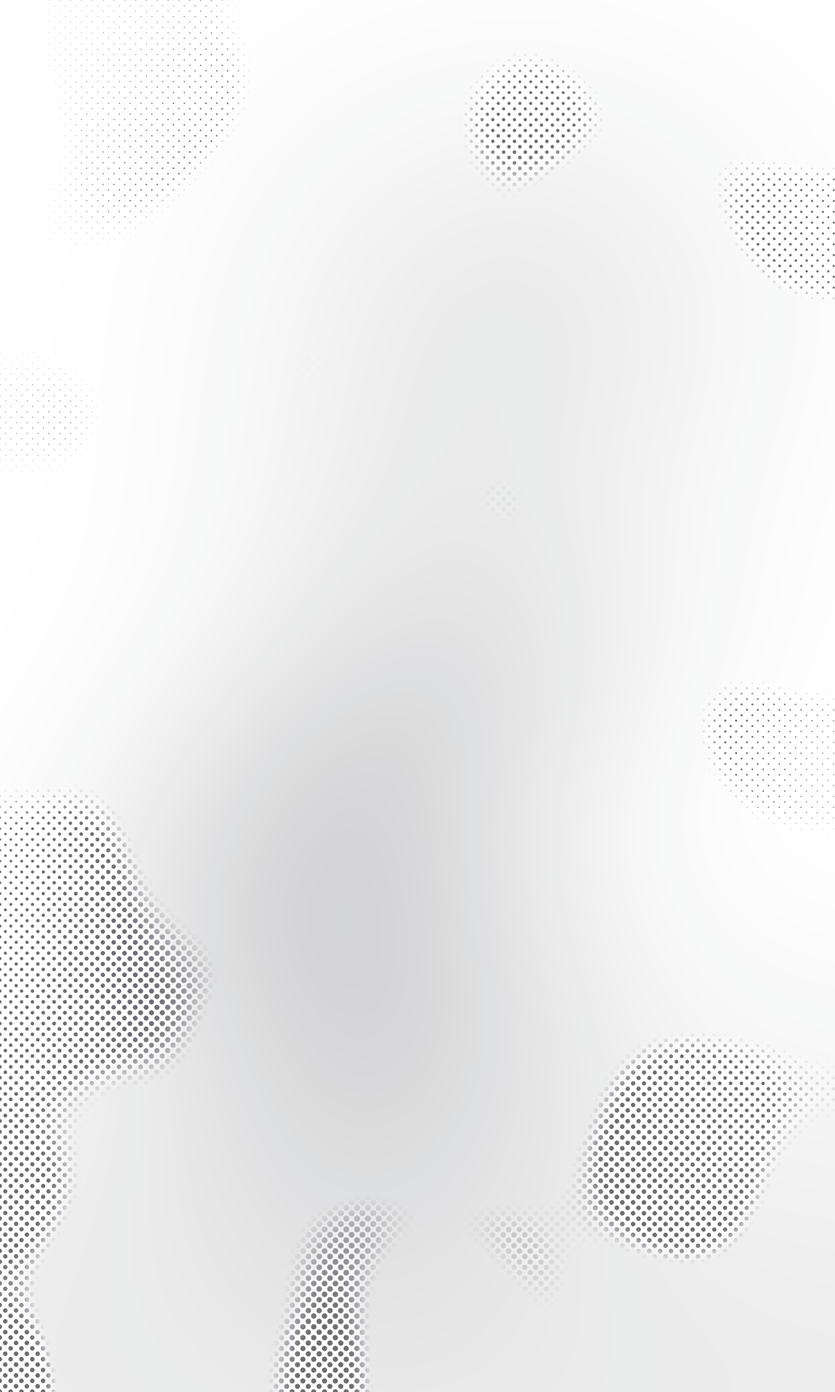
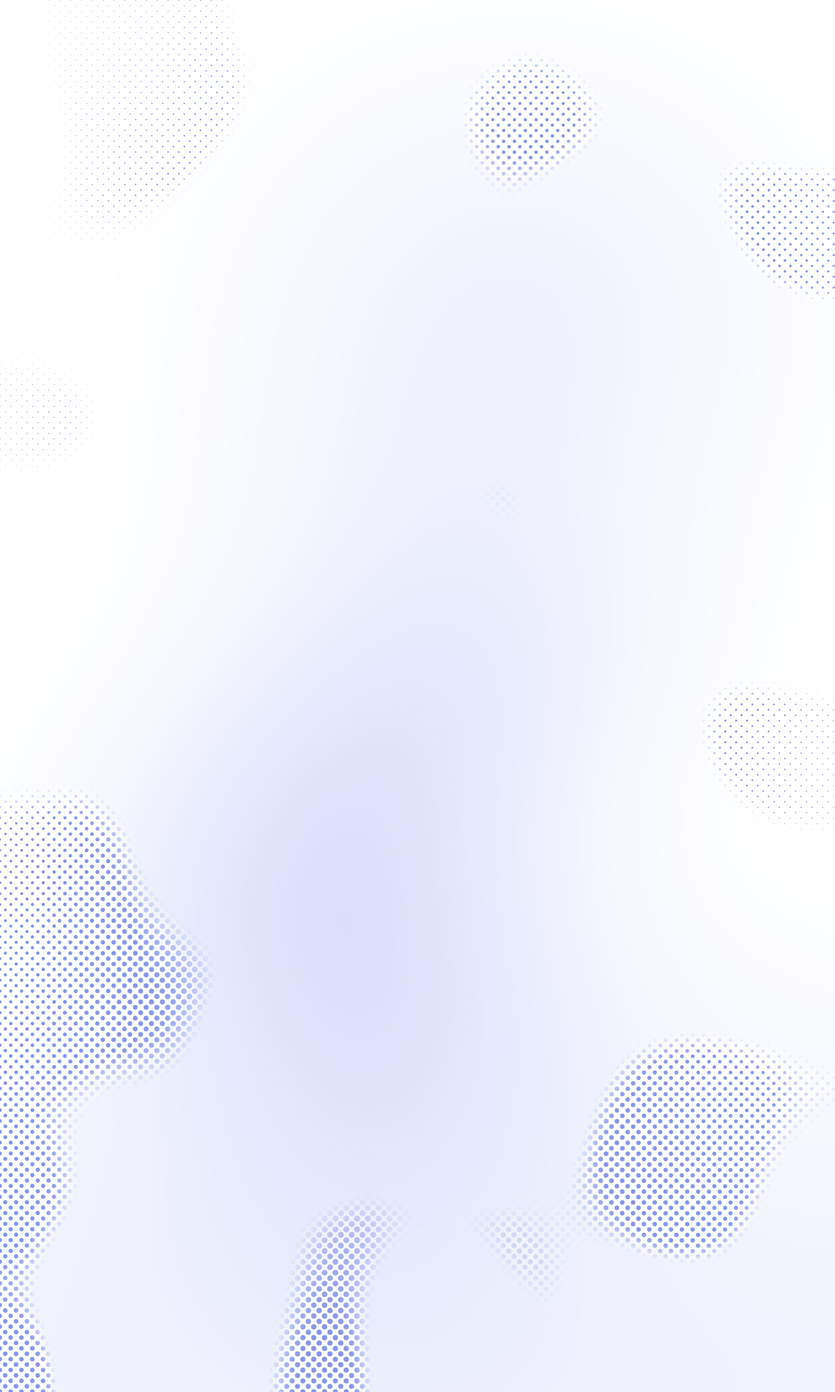
Remove name shadow; visible blue accents; pill buttons; lucky knot, coin and cloud symbols; hanging knot in contact
Claude-Session: https://claude.ai/code/session_01T5woLKjRtQDJP5PPED7MXK

Changed region(s): [[0.0, 0.434, 0.9867, 1.0], [0.555, 0.062, 0.7092, 0.124], [0.8633, 0.124, 0.9867, 0.186]]

diff --git a/index.html b/index.html
@@ -34,7 +34,7 @@ body{background:var(--paper);color:var(--ink);font-family:var(--disp);font-weigh
 img,video,canvas{display:block;max-width:100%}
 a{color:inherit}
 button{font:inherit;color:inherit;background:none;border:0;cursor:pointer}
-::selection{background:var(--ink);color:#fff}
+::selection{background:var(--blue);color:#fff}
 :focus-visible{outline:2px solid var(--blue);outline-offset:3px}
 .skip{position:absolute;left:-999px;top:8px;background:var(--ink);color:#fff;padding:8px 12px;z-index:100}
 .skip:focus{left:8px}
@@ -64,8 +64,6 @@ button{font:inherit;color:inherit;background:none;border:0;cursor:pointer}
 .hero{position:relative;height:100svh;min-height:620px;overflow:hidden;touch-action:pan-y;background:var(--paper);cursor:crosshair}
 .hero canvas{position:absolute;inset:0;width:100%;height:100%}
 #bg{z-index:0}
-#echo{z-index:1;opacity:.07;filter:blur(1.5px);will-change:transform}
-#shadow{z-index:1;opacity:.22;filter:blur(18px);will-change:transform}
 #ink{z-index:2}
 /* layered x-ray art: each layer moves at its own depth */
 .art{position:absolute;z-index:1;top:-8%;right:2%;height:118%;aspect-ratio:3/5;pointer-events:none;-webkit-mask-image:radial-gradient(ellipse 52% 50% at 50% 50%,#000 62%,transparent 100%);mask-image:radial-gradient(ellipse 52% 50% at 50% 50%,#000 62%,transparent 100%)}
@@ -82,16 +80,15 @@ button{font:inherit;color:inherit;background:none;border:0;cursor:pointer}
 .hero-foot > *{pointer-events:auto}
 .hero-foot .who{font-size:12px;margin-top:10px;max-width:34ch;color:#333}
 .hero-foot .right{justify-self:end;text-align:right;font-size:12px;background:rgba(255,255,255,.88);padding:8px 10px;margin:-8px -10px}
-.hero-foot .right p{margin-bottom:6px}
+.hero-foot .right p{margin-bottom:6px;color:var(--blue)}
 .hero-foot .tag,.hero-foot .who,.hero-foot .right{text-shadow:0 0 10px #fff,0 0 4px #fff}
 .dot{display:inline-block;width:7px;height:7px;border-radius:50%;background:var(--blue);margin-right:8px;vertical-align:1px;animation:ping 2.4s infinite}
 @keyframes ping{0%{box-shadow:0 0 0 0 rgba(35,65,224,.45)}70%,100%{box-shadow:0 0 0 8px rgba(35,65,224,0)}}
 .tag{font-family:var(--disp);font-size:clamp(17px,1.7vw,24px);line-height:1.25;letter-spacing:-.01em}
 .hint{color:var(--mute);font-size:11px;justify-self:center;opacity:0;transition:opacity .6s}
 .hero.done .hint{opacity:1}
-.replay{justify-self:end;font-size:11px;text-decoration:underline;text-underline-offset:3px;opacity:0;transition:opacity .6s}
+.replay{opacity:0;transition:opacity .6s,background .25s,color .25s,border-color .25s}
 .hero.done .replay{opacity:1}
-.replay:hover{color:var(--blue)}
 
 
 /* spine: scroll position as a column of vertebrae */
@@ -142,14 +139,18 @@ section.block{padding:clamp(96px,12vw,170px) var(--gut) 0;position:relative}
 .feat .sub{margin-bottom:18px}
 .facts{display:grid;grid-template-columns:auto 1fr;gap:3px 16px;font-size:12px;margin-bottom:22px}
 .facts dt{color:var(--mute)}
-.btn{display:inline-flex;align-items:center;gap:10px;font-size:13px;font-weight:450;text-decoration:none;border-bottom:1px solid var(--ink);padding-bottom:3px;transition:color .2s,border-color .2s}
-.btn:hover{color:var(--blue);border-color:var(--blue)}
+.btn{--paper:#fff;display:inline-flex;align-items:center;gap:9px;font-size:14px;line-height:1;text-decoration:none;color:var(--ink);background:#fff;border:1px solid var(--ink);border-radius:999px;padding:9px 18px 9px 11px;transition:background .25s,color .25s,border-color .25s}
+.btn svg{width:18px;height:18px;flex:none;transition:transform .6s var(--ease)}
+.btn:hover,.btn:focus-visible{--paper:var(--blue);background:var(--blue);border-color:var(--blue);color:#fff}
+.btn:hover svg,.btn:focus-visible svg{transform:rotate(45deg)}
+.btn.sm{font-size:12px;padding:6px 14px 6px 9px}.btn.sm svg{width:15px;height:15px}
+.pill{display:inline-flex;align-items:center;border:1px solid var(--blue);color:var(--blue);border-radius:999px;padding:6px 14px 6px 12px;background:#fff}
 
 /* index */
 .filters{display:flex;gap:6px;flex-wrap:wrap;margin-bottom:20px}
-.filters button{font-size:12px;padding:5px 12px;border:1px solid var(--line);transition:border-color .2s,color .2s,background .2s}
+.filters button{font-size:13px;padding:6px 14px;border-radius:999px;border:1px solid var(--line);transition:border-color .2s,color .2s,background .2s}
 .filters button:hover{border-color:var(--ink)}
-.filters button[aria-pressed="true"]{background:var(--ink);border-color:var(--ink);color:#fff}
+.filters button[aria-pressed="true"]{background:var(--blue);border-color:var(--blue);color:#fff}
 .filters .count{margin-left:8px;opacity:.55}
 .index{list-style:none;border-top:1px solid var(--ink);max-width:1440px}
 .index li{border-bottom:1px solid var(--line)}
@@ -162,7 +163,7 @@ section.block{padding:clamp(96px,12vw,170px) var(--gut) 0;position:relative}
 .row::after{content:"";position:absolute;left:0;top:50%;width:6px;height:6px;margin-top:-3px;background:var(--blue);transform:scale(0);transition:transform .3s var(--ease)}
 .row:hover::before,.row:focus-visible::before{width:100%}
 .row:hover::after,.row:focus-visible::after{transform:scale(1)}
-.row:hover .t,.row:focus-visible .t{transform:translateX(16px)}
+.row:hover .t,.row:focus-visible .t{transform:translateX(16px);color:var(--blue)}
 .peek{position:fixed;left:0;top:0;width:260px;pointer-events:none;z-index:30;opacity:0;transition:opacity .25s;will-change:transform}
 .peek.on{opacity:1}
 .peek img{width:100%;aspect-ratio:4/3;object-fit:cover}
@@ -212,7 +213,14 @@ section.block{padding:clamp(96px,12vw,170px) var(--gut) 0;position:relative}
 .field h3{font-family:var(--disp);font-weight:400;font-size:15px;margin-bottom:16px}
 
 /* contact */
-.contact{padding-bottom:28px}
+.contact{padding-bottom:28px;overflow:hidden}
+/* hanging lucky knot: sways from its loop, tassel lags behind */
+.hang{position:absolute;right:calc(var(--gut) + 4vw);top:calc(clamp(96px,12vw,170px) - 20px);width:clamp(120px,15vw,220px);color:var(--blue);--paper:#fff;transform-origin:50% 0;clip-path:inset(0 0 100% 0);transition:clip-path 1.6s var(--ease);pointer-events:none}
+.hang.in{clip-path:inset(0 0 -10% 0);animation:sway 6s ease-in-out 1.6s infinite}
+.hang svg{width:100%;height:auto;overflow:visible}
+.hang .tassel{transform-box:fill-box;transform-origin:50% 0;animation:sway 6s ease-in-out 1.9s infinite}
+@keyframes sway{0%,100%{transform:rotate(-2.2deg)}50%{transform:rotate(2.2deg)}}
+.head .sym{width:22px;height:22px;margin-right:12px;vertical-align:-2px;color:var(--blue)}
 .mail{display:block;font-family:var(--disp);font-size:clamp(22px,5vw,80px);letter-spacing:-.05em;line-height:1.1;text-decoration:none;word-break:break-word;max-width:1440px;transition:color .25s}
 .mail:hover{color:var(--blue)}
 .contact-row{display:flex;gap:28px;flex-wrap:wrap;align-items:center;margin-top:32px}
@@ -226,8 +234,8 @@ dialog.drawer::backdrop{background:rgba(255,255,255,.7);backdrop-filter:blur(4px
 dialog.drawer[open]{animation:slide .5s var(--ease)}
 @keyframes slide{from{transform:translateX(40px);opacity:0}}
 .d-top{position:sticky;top:0;background:var(--ink);color:#fff;display:flex;justify-content:space-between;align-items:center;padding:8px 20px;z-index:2;font-size:11px}
-.d-close{text-decoration:underline;text-underline-offset:3px}
-.d-close:hover{color:var(--blue)}
+.d-close{border:1px solid #fff;border-radius:999px;padding:4px 12px}
+.d-close:hover{background:var(--blue);border-color:var(--blue)}
 .d-body{padding:26px 24px 48px}
 .d-body h2{font-family:var(--disp);font-weight:400;font-size:clamp(22px,3vw,32px);line-height:1.15;letter-spacing:-.02em;margin-bottom:18px}
 .d-body .sub{font-size:15px;margin-bottom:20px}
@@ -242,6 +250,8 @@ dialog.drawer[open]{animation:slide .5s var(--ease)}
   .nav{justify-self:end;gap:18px}
   .clocks{display:none}
   .hint,.fine{display:none}
+  .hang{width:96px;top:70px;right:var(--gut);opacity:.9}
+  .contact .head h2{padding-right:110px}
   .art{top:4%;right:-62%;height:96%;opacity:.6}
   .hero-foot{grid-template-columns:1fr;gap:14px;bottom:22px}
   .hero-foot .right{justify-self:start;text-align:left;display:flex;gap:18px;align-items:center;flex-wrap:wrap}
@@ -285,7 +295,7 @@ dialog.drawer[open]{animation:slide .5s var(--ease)}
     <span>SZ <b data-tz="Asia/Shanghai">--:--</b></span>
   </div>
 </header>
-<svg width="0" height="0" style="position:absolute" aria-hidden="true"><defs><symbol id="vert" viewBox="0 0 26 14" shape-rendering="crispEdges"><path d="M8 0h10v2H8zM0 2h4v2H0zM6 2h14v2H6zM22 2h4v2h-4zM0 4h26v2H0zM6 6h14v2H6zM8 8h4v2H8zM14 8h4v2h-4zM10 10h6v2h-6zM12 12h2v2h-2z"/></symbol></defs></svg>
+<svg width="0" height="0" style="position:absolute" aria-hidden="true"><defs><symbol id="i-knot" viewBox="0 0 24 24"><g class="knot " fill="none" stroke-linejoin="round"><path d="M9.53,4.58 L19.42,14.47 M4.58,9.53 L14.47,19.42" stroke="currentColor" stroke-width="3.2" stroke-linecap="round"/><path d="M9.53,4.58 L19.42,14.47 M4.58,9.53 L14.47,19.42" stroke="var(--paper,#fff)" stroke-width="1.4" stroke-linecap="round"/><path d="M14.47,4.58 L4.58,14.47 M19.42,9.53 L9.53,19.42 M14.47,4.58 L14.89,4.22 L15.36,3.93 L15.87,3.72 L16.40,3.59 L16.95,3.55 L17.50,3.59 L18.03,3.72 L18.54,3.93 L19.01,4.22 L19.42,4.58 L19.78,4.99 L20.07,5.46 L20.28,5.97 L20.41,6.50 L20.45,7.05 L20.41,7.60 L20.28,8.13 L20.07,8.64 L19.78,9.11 L19.42,9.53 M9.53,19.42 L9.11,19.78 L8.64,20.07 L8.13,20.28 L7.60,20.41 L7.05,20.45 L6.50,20.41 L5.97,20.28 L5.46,20.07 L4.99,19.78 L4.58,19.42 L4.22,19.01 L3.93,18.54 L3.72,18.03 L3.59,17.50 L3.55,16.95 L3.59,16.40 L3.72,15.87 L3.93,15.36 L4.22,14.89 L4.58,14.47 M4.58,9.53 L4.22,9.11 L3.93,8.64 L3.72,8.13 L3.59,7.60 L3.55,7.05 L3.59,6.50 L3.72,5.97 L3.93,5.46 L4.22,4.99 L4.58,4.58 L4.99,4.22 L5.46,3.93 L5.97,3.72 L6.50,3.59 L7.05,3.55 L7.60,3.59 L8.13,3.72 L8.64,3.93 L9.11,4.22 L9.53,4.58 M19.42,14.47 L19.78,14.89 L20.07,15.36 L20.28,15.87 L20.41,16.40 L20.45,16.95 L20.41,17.50 L20.28,18.03 L20.07,18.54 L19.78,19.01 L19.42,19.42 L19.01,19.78 L18.54,20.07 L18.03,20.28 L17.50,20.41 L16.95,20.45 L16.40,20.41 L15.87,20.28 L15.36,20.07 L14.89,19.78 L14.47,19.42" stroke="currentColor" stroke-width="3.2" stroke-linecap="round"/><path d="M14.47,4.58 L4.58,14.47 M19.42,9.53 L9.53,19.42 M14.47,4.58 L14.89,4.22 L15.36,3.93 L15.87,3.72 L16.40,3.59 L16.95,3.55 L17.50,3.59 L18.03,3.72 L18.54,3.93 L19.01,4.22 L19.42,4.58 L19.78,4.99 L20.07,5.46 L20.28,5.97 L20.41,6.50 L20.45,7.05 L20.41,7.60 L20.28,8.13 L20.07,8.64 L19.78,9.11 L19.42,9.53 M9.53,19.42 L9.11,19.78 L8.64,20.07 L8.13,20.28 L7.60,20.41 L7.05,20.45 L6.50,20.41 L5.97,20.28 L5.46,20.07 L4.99,19.78 L4.58,19.42 L4.22,19.01 L3.93,18.54 L3.72,18.03 L3.59,17.50 L3.55,16.95 L3.59,16.40 L3.72,15.87 L3.93,15.36 L4.22,14.89 L4.58,14.47 M4.58,9.53 L4.22,9.11 L3.93,8.64 L3.72,8.13 L3.59,7.60 L3.55,7.05 L3.59,6.50 L3.72,5.97 L3.93,5.46 L4.22,4.99 L4.58,4.58 L4.99,4.22 L5.46,3.93 L5.97,3.72 L6.50,3.59 L7.05,3.55 L7.60,3.59 L8.13,3.72 L8.64,3.93 L9.11,4.22 L9.53,4.58 M19.42,14.47 L19.78,14.89 L20.07,15.36 L20.28,15.87 L20.41,16.40 L20.45,16.95 L20.41,17.50 L20.28,18.03 L20.07,18.54 L19.78,19.01 L19.42,19.42 L19.01,19.78 L18.54,20.07 L18.03,20.28 L17.50,20.41 L16.95,20.45 L16.40,20.41 L15.87,20.28 L15.36,20.07 L14.89,19.78 L14.47,19.42" stroke="var(--paper,#fff)" stroke-width="1.4" stroke-linecap="round"/><path d="M5.37,10.32 L8.73,13.68 M15.27,10.32 L18.63,13.68" stroke="currentColor" stroke-width="3.2" stroke-linecap="butt"/><path d="M5.37,10.32 L8.73,13.68 M15.27,10.32 L18.63,13.68" stroke="var(--paper,#fff)" stroke-width="1.4" stroke-linecap="butt"/></g></symbol><symbol id="i-coin" viewBox="0 0 24 24"><g fill="none" stroke="currentColor" stroke-width="1.5" stroke-linejoin="round"><circle cx="12" cy="12" r="9"/><circle cx="12" cy="12" r="6.6" stroke-width=".8"/><rect x="9.4" y="9.4" width="5.2" height="5.2" rx=".6"/><path d="M12 3v2.4M12 18.6V21M3 12h2.4M18.6 12H21" stroke-width=".8"/></g></symbol><symbol id="i-cloud" viewBox="0 0 24 24"><g fill="none" stroke="currentColor" stroke-width="1.5" stroke-linecap="round" stroke-linejoin="round"><path d="M2.5 16.2C1.6 12.6 4.6 10.2 7.4 11.4c1.9.8 1.8 3.5-.1 3.6-1.3.1-1.7-1.3-.8-1.8"/><path d="M7.4 11.4C7.6 7 13.6 5.4 16.6 8.4c2.3 2.3 1 5.9-1.7 5.6-1.8-.2-1.9-2.4-.4-2.6"/><path d="M2.5 16.2H21.5M5.5 19.2h12"/></g></symbol><symbol id="vert" viewBox="0 0 26 14" shape-rendering="crispEdges"><path d="M8 0h10v2H8zM0 2h4v2H0zM6 2h14v2H6zM22 2h4v2h-4zM0 4h26v2H0zM6 6h14v2H6zM8 8h4v2H8zM14 8h4v2h-4zM10 10h6v2h-6zM12 12h2v2h-2z"/></symbol></defs></svg>
 <nav class="spine" aria-label="Scroll position">
   <a href="#work"><svg><use href="#vert"/></svg><span>Work</span></a>
   <a href="#lab"><svg><use href="#vert"/></svg><span>Lab</span></a>
@@ -305,8 +315,6 @@ dialog.drawer[open]{animation:slide .5s var(--ease)}
       <img src="assets/art/art-accent.webp" alt="" decoding="async">
       <span class="scanline"></span>
     </div>
-    <canvas id="echo" aria-hidden="true"></canvas>
-    <canvas id="shadow" aria-hidden="true"></canvas>
     <canvas id="ink" aria-hidden="true"></canvas>
     <canvas id="marks" aria-hidden="true"></canvas>
 
@@ -314,12 +322,12 @@ dialog.drawer[open]{animation:slide .5s var(--ease)}
     <div class="hero-foot">
       <div><p class="tag">Watch people.<br>Then build.</p><p class="who">Caroline Chen, a designer across UX, brand, print and motion, trained in design and economics.</p></div>
       <span class="hint" id="hint">Hover the name, or click anywhere</span>
-      <div class="right"><p><span class="dot" aria-hidden="true"></span>Open to full-time roles</p><button class="replay" type="button" id="replay">Write it again</button></div>
+      <div class="right"><p><span class="pill"><span class="dot" aria-hidden="true"></span>Open to full-time roles</span></p><button class="btn sm replay" type="button" id="replay"><svg aria-hidden="true"><use href="#i-cloud"/></svg>Write it again</button></div>
     </div>
   </section>
 
   <section class="block" id="work" aria-labelledby="work-h">
-    <div class="head"><h2 id="work-h">Selected work</h2><span class="meta">04 of 15</span></div>
+    <div class="head"><h2 id="work-h"><svg class="sym" aria-hidden="true"><use href="#i-coin"/></svg>Selected work</h2><span class="meta">04 of 15</span></div>
     <p class="lede">Four projects that move between screen and paper. <span id="inkhint">Hover an image to bring it into color.</span></p>
     <div class="features" id="features"></div>
   </section>
@@ -331,13 +339,13 @@ dialog.drawer[open]{animation:slide .5s var(--ease)}
   </section>
 
   <section class="block" id="lab" aria-labelledby="lab-h">
-    <div class="head"><h2 id="lab-h">Lab</h2><span class="meta">Hand-drawn, no AI</span></div>
+    <div class="head"><h2 id="lab-h"><svg class="sym" aria-hidden="true"><use href="#i-cloud"/></svg>Lab</h2><span class="meta">Hand-drawn, no AI</span></div>
     <p class="lede">Motion experiments, rough on purpose. A failed experiment is safe as long as it teaches me something for the next build.</p>
     <div class="lab" id="labgrid"></div>
   </section>
 
   <section class="block" id="process" aria-labelledby="process-h">
-    <div class="head"><h2 id="process-h">How I work</h2><span class="meta">Three steps</span></div>
+    <div class="head"><h2 id="process-h"><svg class="sym" aria-hidden="true"><use href="#i-knot"/></svg>How I work</h2><span class="meta">Three steps</span></div>
     <p class="lede">I watch how people behave in a space, not how they say they do, then find the habit a design could change.</p>
     <ol class="steps">
       <li><img class="proc" src="assets/art/observe.webp" alt="" loading="lazy">
@@ -382,11 +390,12 @@ dialog.drawer[open]{animation:slide .5s var(--ease)}
   </section>
 
   <section class="block contact" id="contact" aria-labelledby="contact-h">
-    <div class="head"><h2 id="contact-h">We can build something together.</h2><span class="meta">Email or résumé</span></div>
+    <div class="hang" id="hang" aria-hidden="true"><svg viewBox="0 0 160 250"><g class="knot " fill="none" stroke-linejoin="round"><path d="M71.87,39.08 L136.92,104.13 M55.60,55.34 L120.66,120.40 M39.34,71.60 L104.40,136.66 M23.08,87.87 L88.13,152.92" stroke="currentColor" stroke-width="6.4" stroke-linecap="round"/><path d="M71.87,39.08 L136.92,104.13 M55.60,55.34 L120.66,120.40 M39.34,71.60 L104.40,136.66 M23.08,87.87 L88.13,152.92" stroke="var(--paper,#fff)" stroke-width="3.2" stroke-linecap="round"/><path d="M88.13,39.08 L23.08,104.13 M104.40,55.34 L39.34,120.40 M120.66,71.60 L55.60,136.66 M136.92,87.87 L71.87,152.92 M88.13,39.08 L89.50,37.91 L91.04,36.96 L92.71,36.27 L94.46,35.85 L96.26,35.71 L98.06,35.85 L99.82,36.27 L101.48,36.96 L103.02,37.91 L104.40,39.08 L105.57,40.45 L106.51,41.99 L107.20,43.66 L107.62,45.41 L107.76,47.21 L107.62,49.01 L107.20,50.76 L106.51,52.43 L105.57,53.97 L104.40,55.34 M39.34,120.40 L37.97,121.57 L36.43,122.51 L34.76,123.20 L33.01,123.62 L31.21,123.76 L29.41,123.62 L27.66,123.20 L25.99,122.51 L24.45,121.57 L23.08,120.40 L21.91,119.02 L20.96,117.48 L20.27,115.82 L19.85,114.06 L19.71,112.26 L19.85,110.46 L20.27,108.71 L20.96,107.04 L21.91,105.50 L23.08,104.13 M55.60,55.34 L54.43,53.97 L53.49,52.43 L52.80,50.76 L52.38,49.01 L52.24,47.21 L52.38,45.41 L52.80,43.66 L53.49,41.99 L54.43,40.45 L55.60,39.08 L56.98,37.91 L58.52,36.96 L60.18,36.27 L61.94,35.85 L63.74,35.71 L65.54,35.85 L67.29,36.27 L68.96,36.96 L70.50,37.91 L71.87,39.08 M136.92,104.13 L138.09,105.50 L139.04,107.04 L139.73,108.71 L140.15,110.46 L140.29,112.26 L140.15,114.06 L139.73,115.82 L139.04,117.48 L138.09,119.02 L136.92,120.40 L135.55,121.57 L134.01,122.51 L132.34,123.20 L130.59,123.62 L128.79,123.76 L126.99,123.62 L125.24,123.20 L123.57,122.51 L122.03,121.57 L120.66,120.40 M120.66,71.60 L122.03,70.43 L123.57,69.49 L125.24,68.80 L126.99,68.38 L128.79,68.24 L130.59,68.38 L132.34,68.80 L134.01,69.49 L135.55,70.43 L136.92,71.60 L138.09,72.98 L139.04,74.52 L139.73,76.18 L140.15,77.94 L140.29,79.74 L140.15,81.54 L139.73,83.29 L139.04,84.96 L138.09,86.50 L136.92,87.87 M71.87,152.92 L70.50,154.09 L68.96,155.04 L67.29,155.73 L65.54,156.15 L63.74,156.29 L61.94,156.15 L60.18,155.73 L58.52,155.04 L56.98,154.09 L55.60,152.92 L54.43,151.55 L53.49,150.01 L52.80,148.34 L52.38,146.59 L52.24,144.79 L52.38,142.99 L52.80,141.24 L53.49,139.57 L54.43,138.03 L55.60,136.66 M23.08,87.87 L21.91,86.50 L20.96,84.96 L20.27,83.29 L19.85,81.54 L19.71,79.74 L19.85,77.94 L20.27,76.18 L20.96,74.52 L21.91,72.98 L23.08,71.60 L24.45,70.43 L25.99,69.49 L27.66,68.80 L29.41,68.38 L31.21,68.24 L33.01,68.38 L34.76,68.80 L36.43,69.49 L37.97,70.43 L39.34,71.60 M104.40,136.66 L105.57,138.03 L106.51,139.57 L107.20,141.24 L107.62,142.99 L107.76,144.79 L107.62,146.59 L107.20,148.34 L106.51,150.01 L105.57,151.55 L104.40,152.92 L103.02,154.09 L101.48,155.04 L99.82,155.73 L98.06,156.15 L96.26,156.29 L94.46,156.15 L92.71,155.73 L91.04,155.04 L89.50,154.09 L88.13,152.92" stroke="currentColor" stroke-width="6.4" stroke-linecap="round"/><path d="M88.13,39.08 L23.08,104.13 M104.40,55.34 L39.34,120.40 M120.66,71.60 L55.60,136.66 M136.92,87.87 L71.87,152.92 M88.13,39.08 L89.50,37.91 L91.04,36.96 L92.71,36.27 L94.46,35.85 L96.26,35.71 L98.06,35.85 L99.82,36.27 L101.48,36.96 L103.02,37.91 L104.40,39.08 L105.57,40.45 L106.51,41.99 L107.20,43.66 L107.62,45.41 L107.76,47.21 L107.62,49.01 L107.20,50.76 L106.51,52.43 L105.57,53.97 L104.40,55.34 M39.34,120.40 L37.97,121.57 L36.43,122.51 L34.76,123.20 L33.01,123.62 L31.21,123.76 L29.41,123.62 L27.66,123.20 L25.99,122.51 L24.45,121.57 L23.08,120.40 L21.91,119.02 L20.96,117.48 L20.27,115.82 L19.85,114.06 L19.71,112.26 L19.85,110.46 L20.27,108.71 L20.96,107.04 L21.91,105.50 L23.08,104.13 M55.60,55.34 L54.43,53.97 L53.49,52.43 L52.80,50.76 L52.38,49.01 L52.24,47.21 L52.38,45.41 L52.80,43.66 L53.49,41.99 L54.43,40.45 L55.60,39.08 L56.98,37.91 L58.52,36.96 L60.18,36.27 L61.94,35.85 L63.74,35.71 L65.54,35.85 L67.29,36.27 L68.96,36.96 L70.50,37.91 L71.87,39.08 M136.92,104.13 L138.09,105.50 L139.04,107.04 L139.73,108.71 L140.15,110.46 L140.29,112.26 L140.15,114.06 L139.73,115.82 L139.04,117.48 L138.09,119.02 L136.92,120.40 L135.55,121.57 L134.01,122.51 L132.34,123.20 L130.59,123.62 L128.79,123.76 L126.99,123.62 L125.24,123.20 L123.57,122.51 L122.03,121.57 L120.66,120.40 M120.66,71.60 L122.03,70.43 L123.57,69.49 L125.24,68.80 L126.99,68.38 L128.79,68.24 L130.59,68.38 L132.34,68.80 L134.01,69.49 L135.55,70.43 L136.92,71.60 L138.09,72.98 L139.04,74.52 L139.73,76.18 L140.15,77.94 L140.29,79.74 L140.15,81.54 L139.73,83.29 L139.04,84.96 L138.09,86.50 L136.92,87.87 M71.87,152.92 L70.50,154.09 L68.96,155.04 L67.29,155.73 L65.54,156.15 L63.74,156.29 L61.94,156.15 L60.18,155.73 L58.52,155.04 L56.98,154.09 L55.60,152.92 L54.43,151.55 L53.49,150.01 L52.80,148.34 L52.38,146.59 L52.24,144.79 L52.38,142.99 L52.80,141.24 L53.49,139.57 L54.43,138.03 L55.60,136.66 M23.08,87.87 L21.91,86.50 L20.96,84.96 L20.27,83.29 L19.85,81.54 L19.71,79.74 L19.85,77.94 L20.27,76.18 L20.96,74.52 L21.91,72.98 L23.08,71.60 L24.45,70.43 L25.99,69.49 L27.66,68.80 L29.41,68.38 L31.21,68.24 L33.01,68.38 L34.76,68.80 L36.43,69.49 L37.97,70.43 L39.34,71.60 M104.40,136.66 L105.57,138.03 L106.51,139.57 L107.20,141.24 L107.62,142.99 L107.76,144.79 L107.62,146.59 L107.20,148.34 L106.51,150.01 L105.57,151.55 L104.40,152.92 L103.02,154.09 L101.48,155.04 L99.82,155.73 L98.06,156.15 L96.26,156.29 L94.46,156.15 L92.71,155.73 L91.04,155.04 L89.50,154.09 L88.13,152.92" stroke="var(--paper,#fff)" stroke-width="3.2" stroke-linecap="round"/><path d="M58.21,57.94 L69.27,69.00 M25.68,90.47 L36.74,101.53 M90.73,57.94 L101.79,69.00 M58.21,90.47 L69.27,101.53 M90.73,90.47 L101.79,101.53 M58.21,123.00 L69.27,134.06 M123.26,90.47 L134.32,101.53 M90.73,123.00 L101.79,134.06" stroke="currentColor" stroke-width="6.4" stroke-linecap="butt"/><path d="M58.21,57.94 L69.27,69.00 M25.68,90.47 L36.74,101.53 M90.73,57.94 L101.79,69.00 M58.21,90.47 L69.27,101.53 M90.73,90.47 L101.79,101.53 M58.21,123.00 L69.27,134.06 M123.26,90.47 L134.32,101.53 M90.73,123.00 L101.79,134.06" stroke="var(--paper,#fff)" stroke-width="3.2" stroke-linecap="butt"/><path d="M80.00,30.95 V15.31" stroke="currentColor" stroke-width="2.8800000000000003"/><circle cx="80.00" cy="9.33" r="5.98" stroke="currentColor" stroke-width="2.8800000000000003"/><path d="M80.00,161.05 V173.01" stroke="currentColor" stroke-width="2.8800000000000003"/><circle cx="80.00" cy="177.61" r="4.60" fill="currentColor"/><rect x="74.94" y="182.67" width="10.12" height="4.14" rx="1.38" fill="currentColor"/><g class="tassel"><path d="M73.74,186.81 q-1.88,23.46 -10.01,46.92 M74.53,186.81 q-1.64,20.34 -8.76,40.69 M75.31,186.81 q-1.41,18.03 -7.51,36.06 M76.09,186.81 q-1.17,21.74 -6.26,43.49 M76.87,186.81 q-0.94,23.10 -5.00,46.20 M77.65,186.81 q-0.70,19.04 -3.75,38.08 M78.44,186.81 q-0.47,18.73 -2.50,37.46 M79.22,186.81 q-0.23,22.87 -1.25,45.74 M80.00,186.81 q0.00,22.11 0.00,44.22 M80.78,186.81 q0.23,18.17 1.25,36.33 M81.56,186.81 q0.47,19.94 2.50,39.88 M82.35,186.81 q0.70,23.43 3.75,46.86 M83.13,186.81 q0.94,20.76 5.00,41.51 M83.91,186.81 q1.17,17.96 6.26,35.91 M84.69,186.81 q1.41,21.35 7.51,42.70 M85.47,186.81 q1.64,23.28 8.76,46.55 M86.26,186.81 q1.88,19.39 10.01,38.77 " stroke="currentColor" stroke-width=".7" stroke-linecap="round"/></g></g></svg></div>
+    <div class="head"><h2 id="contact-h">We can build something together.</h2></div>
     <a class="mail" href="mailto:carolineche99@gmail.com">carolineche99@gmail.com</a>
     <div class="contact-row">
-      <button class="btn" type="button" id="copy">Copy email</button>
-      <a class="btn" href="assets/Caroline_Chen_Resume.pdf" target="_blank" rel="noopener">Résumé (PDF)</a>
+      <button class="btn" type="button" id="copy"><svg aria-hidden="true"><use href="#i-knot"/></svg>Copy email</button>
+      <a class="btn" href="assets/Caroline_Chen_Resume.pdf" target="_blank" rel="noopener"><svg aria-hidden="true"><use href="#i-coin"/></svg>Résumé (PDF)</a>
       <span class="copy-msg" id="copymsg" role="status" aria-live="polite"></span>
     </div>
     <footer>
@@ -546,7 +555,7 @@ $("#features").innerHTML=PROJECTS.filter(p=>p.featured).map(p=>`
       <h3>${esc(p.title)}</h3>
       <p class="sub">${esc(p.sub)}</p>
       <dl class="facts"><dt>Type</dt><dd>${esc(p.kind)}</dd><dt>Year</dt><dd>${esc(p.year||"—")}</dd><dt>Role</dt><dd>${esc(p.role||"")}</dd></dl>
-      <button class="btn" type="button" data-open="${esc(p.title)}">See the project</button>
+      <button class="btn" type="button" data-open="${esc(p.title)}"><svg aria-hidden="true"><use href="#i-coin"/></svg>See the project</button>
     </div>
   </article>`).join("");
 
@@ -571,6 +580,7 @@ if(fine){
   list.addEventListener("pointermove",e=>{ ptx=e.clientX+28; pty=e.clientY-110; if(ptx+260>innerWidth) ptx=e.clientX-288; });
   list.addEventListener("pointerover",e=>{
     const r=e.target.closest(".row"); if(!r) return;
+    ptx=e.clientX+28; pty=e.clientY-110; if(ptx+260>innerWidth) ptx=e.clientX-288;
     peekImg.src=r.dataset.thumb; peekNum.textContent=r.querySelector(".k").textContent;
     if(!pkOn){ pkOn=true; pkx=ptx; pky=pty; peek.classList.add("on"); cancelAnimationFrame(pkRaf); pkLoop(); }
   });
@@ -620,7 +630,7 @@ $("#field").innerHTML=FIELD.map(([f,c])=>`<figure>${texHTML(`assets/china/thumbs
       const W=h.clientWidth, H=46, D=Math.min(2,devicePixelRatio||1); c.width=W*D; c.height=H*D; const g=c.getContext("2d"); g.scale(D,D);
       const r=rng(idx*7919+13), n=2+Math.floor(r()*2);
       for(let k=0;k<n;k++){
-        const cw=70+r()*Math.min(300,W*.24), cx=r()*(W-cw); g.fillStyle="#000";
+        const cw=70+r()*Math.min(300,W*.24), cx=r()*(W-cw); g.fillStyle=k===0?"#2341e0":"#000";
         for(let x=0;x<cw;x+=2.4+r()*3.2){
           const env=Math.sin(x/cw*Math.PI), hh=H*(.12+.88*env*(.3+.7*r())), bw=1+r()*2.4, X=cx+x;
           g.beginPath(); g.moveTo(X,H); g.lineTo(X+bw/2,H-hh); g.lineTo(X+bw,H); g.fill();
@@ -637,6 +647,8 @@ $("#field").innerHTML=FIELD.map(([f,c])=>`<figure>${texHTML(`assets/china/thumbs
   });
 })();
 
+new IntersectionObserver(([en],o)=>{ if(en.isIntersecting){ $("#hang").classList.add("in"); o.disconnect(); } },{threshold:.25}).observe($("#contact"));
+
 /* ===================== DRAWER ===================== */
 const drawer=$("#drawer"),dBody=$("#d-body"),dNum=$("#d-num");
 function openProject(title){
@@ -651,7 +663,7 @@ function openProject(title){
     <p class="sub">${esc(p.sub)}</p>
     <dl class="facts"><dt>Type</dt><dd>${esc(p.kind)}</dd><dt>Year</dt><dd>${esc(p.year||"—")}</dd>${p.role?`<dt>Role</dt><dd>${esc(p.role)}</dd>`:""}</dl>
     ${p.blurb?`<p class="blurb">${esc(p.blurb)}</p>`:""}
-    ${p.url?`<a class="btn" href="${p.url}" ${blank?'target="_blank" rel="noopener"':''}>${esc(p.cta||"Open project")}</a>`:""}
+    ${p.url?`<a class="btn" href="${p.url}" ${blank?'target="_blank" rel="noopener"':''}><svg aria-hidden="true"><use href="#i-coin"/></svg>${esc(p.cta||"Open project")}</a>`:""}
     <div class="d-media">${media}</div>
     <p class="d-tags">${p.tags.map(esc).join(", ")}</p>`;
   drawer.showModal(); drawer.scrollTop=0;
@@ -675,8 +687,8 @@ tick(); setInterval(tick,15000);
 
 /* ===================== HERO: THE NAME, WRITTEN ===================== */
 (function(){
-  const hero=$("#hero"), bg=$("#bg"), art=$("#art"), artL=[...document.querySelectorAll("#art img")], echo=$("#echo"), shadow=$("#shadow"), cv=$("#ink"), mk=$("#marks");
-  const bx=bg.getContext("2d"), ex=echo.getContext("2d"), sx=shadow.getContext("2d"), ctx=cv.getContext("2d"), mx=mk.getContext("2d");
+  const hero=$("#hero"), bg=$("#bg"), art=$("#art"), artL=[...document.querySelectorAll("#art img")], cv=$("#ink"), mk=$("#marks");
+  const bx=bg.getContext("2d"), ctx=cv.getContext("2d"), mx=mk.getContext("2d");
   const glyph=document.createElement("canvas"), gx=glyph.getContext("2d");
   const DATA=window.NAME_STROKES||[];
   const CH=DATA.map(c=>({paths:c.s.map(s=>new Path2D(s)), med:c.m, len:c.m.map(m=>m.reduce((a,p,i)=>i?a+Math.hypot(p[0]-m[i-1][0],p[1]-m[i-1][1]):0,0))}));
@@ -694,7 +706,7 @@ tick(); setInterval(tick,15000);
 
   function layout(){
     DPR=Math.min(2,devicePixelRatio||1); W=hero.clientWidth; H=hero.clientHeight;
-    for(const c of [echo,shadow,cv,glyph,mk]){ c.width=Math.round(W*DPR); c.height=Math.round(H*DPR); }
+    for(const c of [cv,glyph,mk]){ c.width=Math.round(W*DPR); c.height=Math.round(H*DPR); }
     bg.width=Math.round(W*DPR); bg.height=Math.round(H*DPR);
     vertical=W/H<.85;
     if(vertical){ G=Math.min(W*.46,(H-340)/2.6); const top=Math.max(80,(H-310-G*2.6)/2+70); boxes=[0,1,2].map(i=>({x:W*.1,y:top+i*G*.86})); }
@@ -728,16 +740,16 @@ tick(); setInterval(tick,15000);
   function drawAir(k,f){
     const A=airPath(k); if(!A) return null;
     const {p0,c,p1}=A, q=(t)=>[(1-t)*(1-t)*p0[0]+2*(1-t)*t*c[0]+t*t*p1[0],(1-t)*(1-t)*p0[1]+2*(1-t)*t*c[1]+t*t*p1[1]];
-    mx.save(); mx.setTransform(DPR,0,0,DPR,0,0); mx.strokeStyle="rgba(0,0,0,.24)"; mx.lineWidth=.8; mx.setLineDash([]);
+    mx.save(); mx.setTransform(DPR,0,0,DPR,0,0); mx.strokeStyle="rgba(35,65,224,.55)"; mx.lineWidth=.9; mx.setLineDash([]);
     mx.beginPath(); mx.moveTo(p0[0],p0[1]); const n=24; for(let i=1;i<=Math.ceil(n*f);i++) { const p=q(Math.min(f,i/n)); mx.lineTo(p[0],p[1]); } mx.stroke();
     // tiny tick where the pen touches down
-    if(f>=1){ mx.fillStyle="rgba(0,0,0,.35)"; mx.fillRect(p1[0]-1,p1[1]-1,2,2); }
+    if(f>=1){ mx.fillStyle="#2341e0"; mx.fillRect(p1[0]-1,p1[1]-1,2,2); }
     mx.restore(); return q(f);
   }
   function texture(){ gx.save(); gx.setTransform(1,0,0,1,0,0); gx.globalCompositeOperation="source-atop"; gx.globalAlpha=.22; gx.fillStyle=gx.createPattern(noise,"repeat"); gx.fillRect(0,0,glyph.width,glyph.height); gx.globalAlpha=1; gx.globalCompositeOperation="destination-out"; const r=rng(5); for(let i=0;i<900;i++){ const s=(.6+r()*1.6)*DPR; gx.fillRect(r()*glyph.width,r()*glyph.height,s,s); } gx.restore(); }
   function redrawGlyph(){ gx.setTransform(1,0,0,1,0,0); gx.clearRect(0,0,glyph.width,glyph.height); SEQ.forEach((s,k)=>{ if(drawn[k]>0) paintStroke(k,drawn[k]); }); if(done) texture(); syncLayers(); }
   function redrawMarks(){ mx.setTransform(1,0,0,1,0,0); mx.clearRect(0,0,mk.width,mk.height); SEQ.forEach((s,k)=>{ if(air[k]>0) drawAir(k,air[k]); }); }
-  function syncLayers(){ for(const [c,x] of [[shadow,sx],[echo,ex]]){ x.setTransform(1,0,0,1,0,0); x.clearRect(0,0,c.width,c.height); x.drawImage(glyph,0,0); } }
+  function syncLayers(){}
 
   // ripples: rings on the paper; the name refracts as each ring passes through it
   function liveRipples(now){
@@ -782,8 +794,6 @@ tick(); setInterval(tick,15000);
 
   function render(now,tip){
     pmx+=(tmx-pmx)*.06; pmy+=(tmy-pmy)*.06;
-    shadow.style.transform=`translate(${-pmx*16}px,${-pmy*10+G*.08}px)`;
-    echo.style.transform=`translate(${pmx*26}px,${pmy*18}px) scale(1.035)`;
     mk.style.transform=`translate(${pmx*8}px,${pmy*6}px)`;
     bx.setTransform(DPR,0,0,DPR,0,0); bx.clearRect(0,0,W,H);
     for(const f of fog){ const x=(f.x+Math.sin(now*.00005*f.s+f.ph)*.08)*W+pmx*-30*f.s, y=(f.y+Math.cos(now*.00004*f.s+f.ph)*.06)*H+pmy*-20*f.s, r=f.r*Math.max(W,H);
